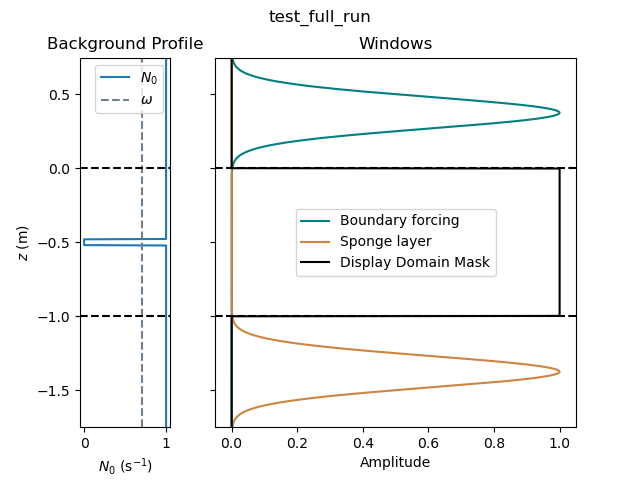
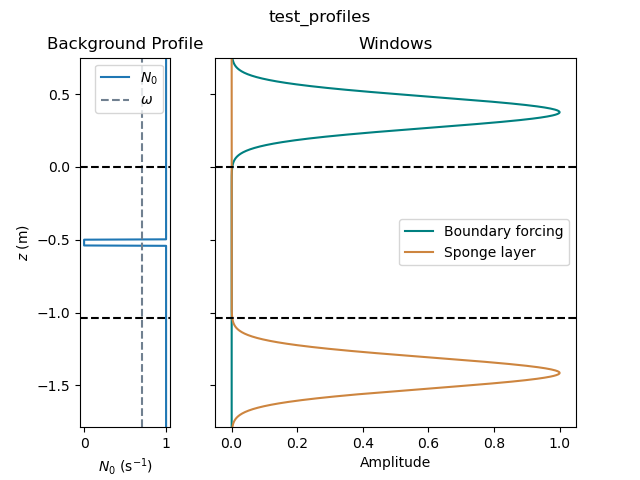
Auto-setting of dis domain passed first test

diff --git a/switchboard.py b/switchboard.py
@@ -13,16 +13,20 @@ from dedalus import public as de
 ###############################################################################
 # Main parameters, the ones I'll change a lot. Many more below
 
+# Relevant parameters
+mL      = 1                     # [] vertical wave number times step length
+theta   = True                  # [] angle between wave's propagation and horizontal (or vertical?)
+
 # Run parameters
 stop_n_periods  = 28            # [] oscillation periods
 extend_to_pwr_2 = True          # [] Extend simulation time so nt is a power of 2
 
 # Displayed domain parameters
 nz     = 1024                   # [] number of grid points in the z direction
-zf_dis = 0.0                    # [m] the top of the displayed z domain
+z0_dis = 0.0                    # [m] the top of the displayed z domain
 Lz_dis = 1.0                    # [m] the length of the z domain between forcing and sponge
 #
-z0_dis = zf_dis - Lz_dis        # [m] The bottom of the displayed domain
+zf_dis = z0_dis - Lz_dis        # [m] The bottom of the displayed domain
 
 # Problem parameters
 A       = 2.0e-4                # []            Amplitude of boundary forcing
@@ -82,8 +86,8 @@ boundary_forcing_region = True  # If False, waves will be forced over entire dom
 # Plotting parameters
 plot_spacetime = False
 plot_wavespace = False
-plot_amplitude = True
-plot_windows   = False
+plot_amplitude = False
+plot_windows   = True
 plot_up_dn     = False
 # If true, plot will include full simulated domain, if false, just the display domain
 plot_full_domain = True
@@ -94,24 +98,44 @@ plot_full_domain = True
 # take_ef_snaps = False # Total energy flux recorded
 
 ###############################################################################
+# Background profile in N_0
+n_steps = 1
+step_th = 1.0/m
+L       = step_th
+
+###############################################################################
+# Buffers and important depths
+
+# Buffers
+#   distance between ends of vertical structure extent and other points
+dis_buff    = 2*lam_z           # [m] buffer from vertical structure to display domain
+IT_buff     = dis_buff/2.0      # [m] buffer from vertical structure to measure I and T
+
+# Depths
+z0_str  = z0_dis - dis_buff     # [m] top of vertical structure
+z_I     = z0_str + IT_buff      # [m] depth at which to measure Incident wave
+zf_str  = z0_str - L            # [m] bottom of vertical structure
+z_T     = zf_str - IT_buff      # [m] depth at which to measure Transmitted wave
+zf_dis  = zf_str - dis_buff     # [m] bottom of display domain
+
+###############################################################################
 # Boundary forcing window parameters
 b_bf    = 1*lam_z               # [m] full width at half max of forcing window
 a_bf    = 3*b_bf                # [m] forcing area, height above display domain
-c_bf    = zf_dis + 0.5*a_bf     # [m] center of forcing area
-tau_bf  = 1.0e-0                 # [s] time constant for boundary forcing
+c_bf    = z0_dis + 0.5*a_bf     # [m] center of forcing area
+tau_bf  = 1.0e-0                # [s] time constant for boundary forcing
 
 # Sponge layer window parameters
 b_sp    = 1*lam_z               # [m] full width at half max of sponge window
 a_sp    = 3*b_sp                # [m] sponge area, height below display domain
-c_sp    = z0_dis - 0.5*a_sp     # [m] center of sponge area
+c_sp    = zf_dis - 0.5*a_sp     # [m] center of sponge area
 tau_sp  = 1.0e-0                # [s] time constant for sponge layer
 
 ###############################################################################
-###############################################################################
 # Simulated domain parameters
-zf     = zf_dis + a_bf          # [m] top of simulated domain
-z0     = z0_dis - a_sp          # [m] bottom of simulated domain
-Lz     = zf - z0                # [m] length of simulated domain
+z0     = z0_dis + a_bf          # [m] top of simulated domain
+zf     = zf_dis - a_sp          # [m] bottom of simulated domain
+Lz     = abs(zf - z0)           # [m] length of simulated domain
 dz     = Lz / nz                # [m] spacing between each grid point
 dealias= 3/2                    # [] dealiasing factor
 
@@ -125,11 +149,7 @@ z = domain.grid(0)
 ks = z_basis.wavenumbers
 
 ###############################################################################
-# Profiles for simulation
-
-# Background profile in N_0
-n_steps = 1
-step_th = 1.0/m
+# Windows for simulation
 
 # Boundary forcing window 2
 if boundary_forcing_region == True:
@@ -150,8 +170,6 @@ else:
 # Measuring the Transmission Coefficient
 
 # Parameters
-z_I             = -0.25         # [m] depth at which incident wave is measured
-z_T             = -0.75         # [m] depth at which transmitted wave is measured
 T_skip          = 15            # []  number of oscillation periods to skip before measuring
 
 ###############################################################################

diff --git a/helper_functions.py b/helper_functions.py
@@ -128,24 +128,26 @@ def extended_stop_time(sim_time_stop, dt):
 ###############################################################################
 
 # Background profile in N_0
-def BP_n_steps(n, z, z0_dis, zf_dis, th):
+def BP_n_steps(n, z, z0_str, zf_str):
     """
     n           number of steps
     z           array of z values
-    z0_dis      bottom of display domain
-    zf_dis      top of display domain
-    th          step thickness
+    z0_str      top of vertical structure extent
+    zf_str      bottom of vertical structure extent
     """
     # create blank array the same size as z
     BP_array = z*0+1
-    # divide the display range for n steps
-    Lz_dis = zf_dis - z0_dis
+    # divide the vertical structure extent for n steps
+    Lz_str = abs(zf_str - z0_str)
     # find step separation
-    step_sep = Lz_dis / (n+1)
+    step_sep = Lz_str / (n+1)
+    # Loop across each i step
     for i in range(n):
-        step_c   = zf_dis - (i+1)*step_sep
-        step_top = step_c + (th/2)
-        step_bot = step_c - (th/2)
+        # Set center of step
+        step_c   = z0_str - (i+1)*step_sep
+        # Set top and bottom of step
+        step_top = step_c + step_sep
+        step_bot = step_c - step_sep
         for j in range(len(BP_array)):
             if z[j] < step_top and z[j] > step_bot:
                 BP_array[j] = 0
@@ -167,13 +169,24 @@ def make_DD_mask(z, z0_dis, zf_dis):
     return DD_array
 
 def add_dis_bounds(ax, z0_dis=None, zf_dis=None):
+    """
+    ax          axis for plot
+    z0_dis      top of vertical structure extent
+    zf_dis      bottom of vertical structure extent
+    """
     line_color = my_clrs['black']
-    if z0_dis != None:
+    if z0_dis != None and zf_dis != None:
         ax.axhline(y=z0_dis, color=line_color, linestyle='--')
         ax.axhline(y=zf_dis, color=line_color, linestyle='--')
 
 # Plot background profile
-def plot_BP(ax, BP, z, omega=None, z0_dis=None, zf_dis=None):
+def plot_BP(ax, BP, z, omega=None):
+    """
+    ax          axis for plot
+    BP          array of background profile in N_0
+    z           array of z values
+    omega       frequency of wave
+    """
     ax.plot(BP, z, color=my_clrs['N_0'], label=r'$N_0$')
     ax.set_xlabel(r'$N_0$ (s$^{-1}$)')
     ax.set_ylabel(r'$z$ (m)')
@@ -184,6 +197,15 @@ def plot_BP(ax, BP, z, omega=None, z0_dis=None, zf_dis=None):
         ax.legend()
 
 def plot_v_profiles(BP_array, bf_array, sp_array, z, omega=None, z0_dis=None, zf_dis=None, title_str='Forced 1D Wave', filename='f_1D_windows.png'):
+    """
+    BP_array    array of background profile in N_0
+    bf_array    array of boundary forcing window
+    sp_array    array of sponge layer window
+    z           array of z values
+    omega       frequency of wave
+    z0_dis      top of vertical structure extent
+    zf_dis      bottom of vertical structure extent
+    """
     # This dictionary makes each subplot have the desired ratios
     # The length of heights will be nrows and likewise len(widths)=ncols
     plot_ratios = {'height_ratios': [1],
@@ -196,7 +218,7 @@ def plot_v_profiles(BP_array, bf_array, sp_array, z, omega=None, z0_dis=None, zf
     #
     axes[1].plot(bf_array, z, color=my_clrs['F_bf'], label='Boundary forcing')
     axes[1].plot(sp_array, z, color=my_clrs['F_sp'], label='Sponge layer')
-    axes[1].plot(make_DD_mask(z, z0_dis, zf_dis), z, color=my_clrs['black'], label='Display Domain Mask')
+    # axes[1].plot(make_DD_mask(z, z0_dis, zf_dis), z, color=my_clrs['black'], label='Display Domain Mask')
     add_dis_bounds(axes[1], z0_dis, zf_dis)
     axes[1].set_xlabel('Amplitude')
     #axes[1].set_ylabel(r'$z$')

diff --git a/main.py b/main.py
@@ -92,7 +92,7 @@ problem.substitutions['f_psi'] = "A*sin(m*z - omega*t)"
 ###############################################################################
 # Background Profile for N_0
 BP = domain.new_field(name = 'BP')
-BP_array = hf.BP_n_steps(sbp.n_steps, z, sbp.z0_dis, sbp.zf_dis, sbp.step_th)
+BP_array = hf.BP_n_steps(sbp.n_steps, z, sbp.z0_str, sbp.zf_str)
 BP['g'] = BP_array
 problem.parameters['BP'] = BP
 
@@ -122,6 +122,8 @@ problem.substitutions['S_term_psi'] = "win_sp * nabla2dt_psi / tau_sp"
 # Plotting windows
 if sbp.plot_windows:
     hf.plot_v_profiles(BP_array, sbp.win_bf_array, sbp.win_sp_array, z, omega, sbp.z0_dis, sbp.zf_dis, title_str=run_name)
+
+raise SystemExit(0)
 
 ###############################################################################
 # Define equations
